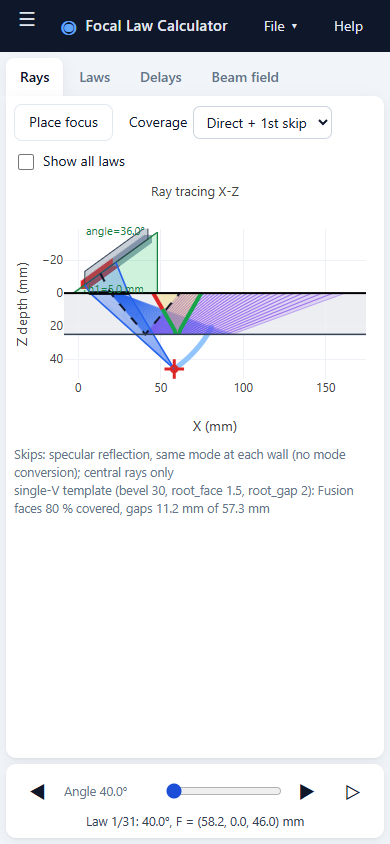
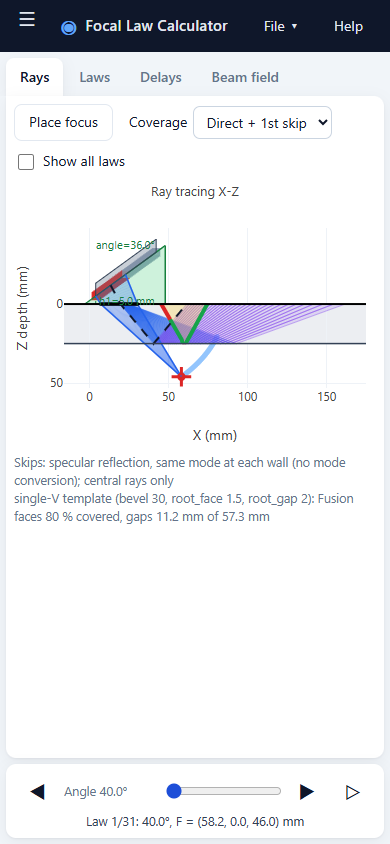
Browser: equal-scale fitting by shrinking the plot on phones only (wide screens keep full-width axes); screenshots updated

diff --git a/web/views.js b/web/views.js
@@ -191,8 +191,8 @@ function drawProjection(div, dim, data) {
   }
   const layout = Object.assign({}, BASE_LAYOUT, {
     title: { text: dim === 0 ? "Ray tracing X-Z" : "Ray tracing Y-Z (seen from −X)", font: { size: 13 } },
-    xaxis: { title: { text: dim === 0 ? "X (mm)" : "Y (mm)" }, range: [h0 - ph, h1 + ph], zeroline: false, gridcolor: "#eef2f7", constrain: "domain" },
-    yaxis: { title: { text: "Z depth (mm)" }, range: [z1 + pz, z0 - pz], scaleanchor: "x", scaleratio: 1, zeroline: false, gridcolor: "#eef2f7", constrain: "domain" },
+    xaxis: { title: { text: dim === 0 ? "X (mm)" : "Y (mm)" }, range: [h0 - ph, h1 + ph], zeroline: false, gridcolor: "#eef2f7", constrain: narrow() ? "domain" : "range" },
+    yaxis: { title: { text: "Z depth (mm)" }, range: [z1 + pz, z0 - pz], scaleanchor: "x", scaleratio: 1, zeroline: false, gridcolor: "#eef2f7", constrain: narrow() ? "domain" : "range" },
     height: fitHeight(div, h1 - h0 + 2 * ph, z1 - z0 + 2 * pz),
     shapes, annotations: notes, uirevision: data.revision, showlegend: !narrow(),
   });
@@ -267,8 +267,8 @@ function drawField(div, sec, focus, metrics, dim) {
   }
   const layout = Object.assign({}, BASE_LAYOUT, { showlegend: false,
     title: { text: `${sec.name} section at ${sec.fixed[0]} = ${sec.fixed[1].toFixed(1)} mm`, font: { size: 13 } },
-    xaxis: { title: { text: `${sec.name[0]} (mm)` }, range: [sec.h[0], sec.h[sec.h.length - 1]], zeroline: false, constrain: "domain" },
-    yaxis: { title: { text: "Z depth (mm)" }, range: [sec.z[sec.z.length - 1], Math.min(0, sec.z[0])], scaleanchor: "x", zeroline: false, constrain: "domain" },
+    xaxis: { title: { text: `${sec.name[0]} (mm)` }, range: [sec.h[0], sec.h[sec.h.length - 1]], zeroline: false, constrain: narrow() ? "domain" : "range" },
+    yaxis: { title: { text: "Z depth (mm)" }, range: [sec.z[sec.z.length - 1], Math.min(0, sec.z[0])], scaleanchor: "x", zeroline: false, constrain: narrow() ? "domain" : "range" },
     height: fitHeight(div, sec.h[sec.h.length - 1] - sec.h[0], sec.z[sec.z.length - 1] - Math.min(0, sec.z[0]), 90) });
   return Plotly.react(div, traces, layout, PLOT_CONFIG);
 }
